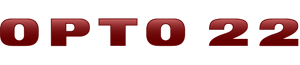
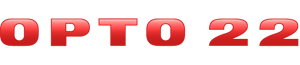
Updated sponsors to include lackaday
and brightened opto a bit

Changed region(s): [[0.0, 0.2769, 0.63, 0.7077], [0.69, 0.2769, 1.0, 0.7077]]

diff --git a/index.html b/index.html
@@ -106,7 +106,7 @@
                         <p><img src="sponsors/opto22.png"></p>
                         <p><img src="sponsors/qualcomm.png"></p>
                         <p><img src="sponsors/dos.png"></p>
-
+                        <p><img src="sponsors/hackaday.png"></p>
                     </div>
                     <p>If you are interested in sponsoring future MuddHacks, please contact us at <a href="mailto:stdin@muddhacks.com">stdin@muddhacks.com</a>.
                 </div>
